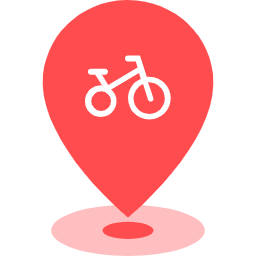
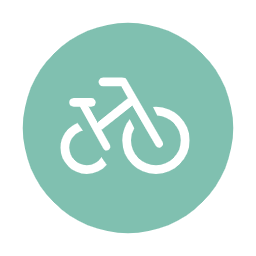
增加停车区域和单车数量， 优化骑车代码

diff --git a/pages/map/map.js b/pages/map/map.js
@@ -411,7 +411,7 @@ Page({
     const markerId = e.markerId;
     if (markerId === 9999) return; // 我的定位点不处理
     // 只处理单车点击（你原来假设单车 id < 100）
-    if (markerId < 100) {
+    if (markerId < 1000) {
       // ✅ 必须先进入扫码开锁模式，才能点车开锁
       if (!this.data.isUnlockMode) {
         wx.showToast({ title: '请先点击“扫码用车”', icon: 'none' });
@@ -632,7 +632,7 @@ Page({
 
     // 直接调用转换函数
     const staticMarkers = mapHelper.convertToSiteMarkers(
-      siteData.list || [], 
+      siteData.list || [],
       this.data.Marker3_Activated
     );
 

diff --git a/utils/mapHelper.js b/utils/mapHelper.js
@@ -59,10 +59,10 @@ const createMarker = (type, id, lat, lng) => {
 const convertToSiteMarkers = (siteList, iconPath) => {
   if (!siteList || !Array.isArray(siteList)) return [];
   return siteList.map((site, index) => ({
-    id: index + 100, // 避开特殊 ID 区
+    id: 10000 + index, // 地标ID从10000开始，永远不会和单车ID冲突
     latitude: site.latitude,
     longitude: site.longitude,
-    iconPath: iconPath,
+    iconPath:'https://3gimg.qq.com/lightmap/xcx/demoCenter/images/Marker3_Activated@3x.png',
     width: 30,
     height: 30,
     callout: {

diff --git a/data/map.js b/data/map.js
@@ -35,7 +35,6 @@ module.exports = {
       ],
       site_id: [1, 1],
       isUseMapImg: true,
-      img: 'https://cdnjson.com/images/2024/03/13/GXNU9b2e3c77b9ff605a.jpg',
       bounds: {
         opacity: 0.9,
         east: 123.803113,
